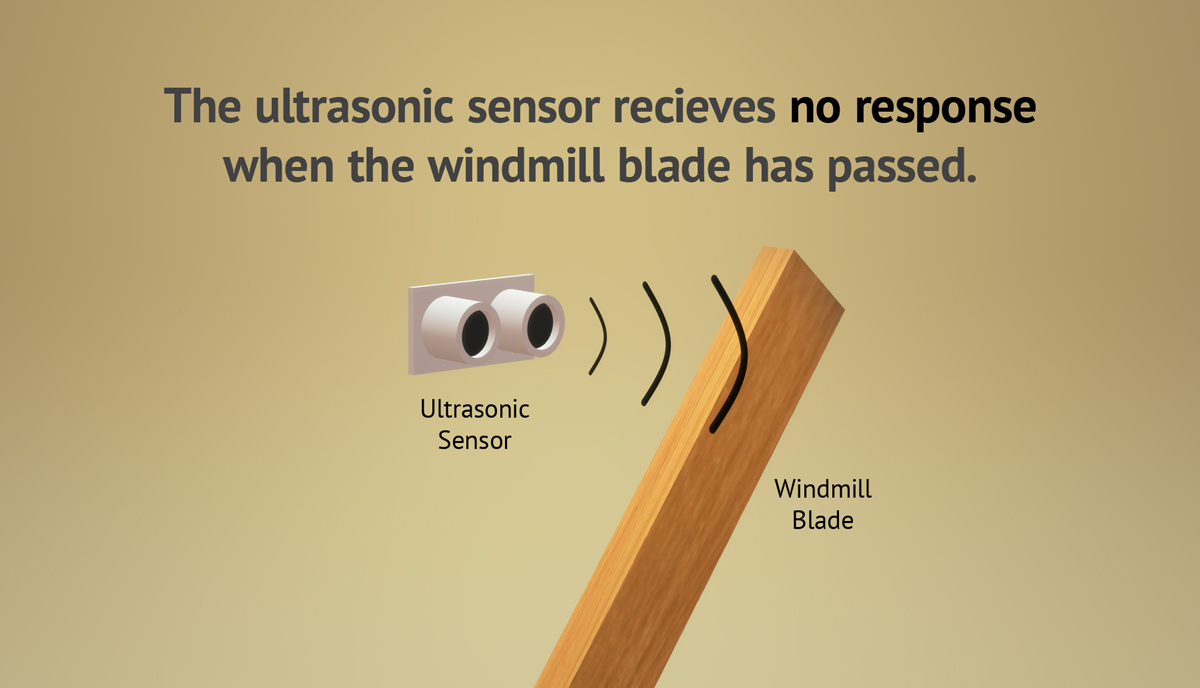
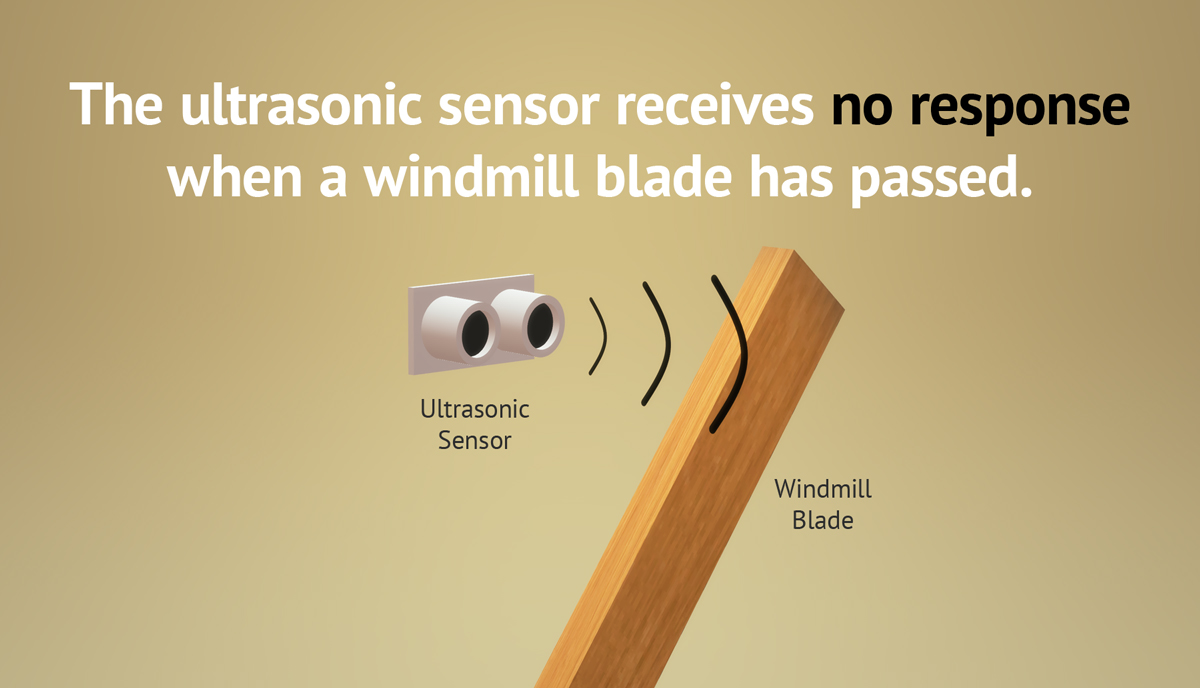
DHT11 data collection

Changed region(s): [[0.0617, 0.1221, 0.9558, 0.3052], [0.3392, 0.5799, 0.4317, 0.6715], [0.6475, 0.702, 0.74, 0.7631]]

diff --git a/about.html b/about.html
@@ -56,16 +56,7 @@
           What is it?
         </h3>
         <p>
-          This is a DIY project to measure and display temperature and windspeed. A homemade sensor unit records and uploads the data, which is accessable via web browser.
-        </p>
-
-        
-        
-          <h3>
-              How does it work?
-            </h3>
-        <p>
-          The weather station – pictured below – is mounted behind windmill blades. 
+          This is a DIY project to measure and display temperature and windspeed. The weather station – pictured below – is mounted behind windmill blades. A homemade sensor unit records and shares data, which is accessable via web browser.
         </p>
 
         <div class="row">
@@ -82,8 +73,12 @@
             </em>
           </div>
         </div>
+
         
-        <br>
+        
+          <h3>
+              How does it work?
+          </h3>
       <p>
         <b>Inside the Weather Station</b>
         
@@ -133,10 +128,10 @@
         </div>        
         <br>
         <p>
-           The ultrasonic sensor sends a signal every 2 milliseconds. If a windmill blade is in front of the sensor, the sensor receives and records a response. By adding how many responses the sensor recieves per 300 signals sent, the windspeed can be calculated.
+           The ultrasonic sensor sends a signal every 2 milliseconds. If a windmill blade is in front of the sensor, the sensor receives and records a response. By adding how many responses the sensor receives per 300 signals sent, the windspeed can be calculated.
           <br>
           <br>
-          <em>
+          <em style="text-align: center;display: block;font-size: 2em;">
             windspeed = (number of blade passes) x (conversion constant)
             </em>
           <br>

diff --git a/database/get_chart_data.php b/database/get_chart_data.php
@@ -18,34 +18,34 @@ $endrange = new DateTime(); //current date/time
 if ($_POST["scope"] == 'Hour') {
   $endrange->sub(new DateInterval("PT1H"));
   $endrange = $endrange->format('Y-m-d H:i:s');
-  $granularity = 2;
+  $granularity = 2; // average every 2 minuets
 }
 if ($_POST["scope"] == 'Day'){
   $endrange->sub(new DateInterval("P1D"));
   $endrange = $endrange->format('Y-m-d H:i:s');
-  $granularity = 40;
+  $granularity = 60; // average every 60 minuets
 }
 if ($_POST["scope"] == 'Week'){
   $endrange->sub(new DateInterval("P1W"));
   $endrange = $endrange->format('Y-m-d H:i:s');
-  $granularity = 160;
+  $granularity = 60 * 12; // average every 12 hours
 }
 if ($_POST["scope"] == 'Month'){
   $endrange->sub(new DateInterval("P1M"));
   $endrange = $endrange->format('Y-m-d H:i:s');
-  $granularity = 600;
+  $granularity = 60 * 24; // average every 24 hours
 }
 if ($_POST["scope"] == 'Year'){
   $endrange->sub(new DateInterval("P1Y"));
   $endrange = $endrange->format('Y-m-d H:i:s');
-  $granularity = 10600;
+  $granularity = 60 * 24 * 20; // average every 20 days
 }
 
 // Query Database
-$result = mysqli_query($conn, "SELECT ID, logdate, windspeed, ROUND(temperature * 9/5 + 29, 2) AS temperature
+$result = mysqli_query($conn, "SELECT ID, logdate, ROUND(AVG(windspeed),2) as windspeed, ROUND(AVG(temperature) * (9/5) + 32, 2) AS temperature
 FROM DataTable
 WHERE logdate BETWEEN '$endrange' AND '$startrange'
-AND ID % '$granularity' = 0
+GROUP BY FLOOR(UNIX_TIMESTAMP(logdate)/('$granularity' * 60))
 ORDER BY ID ASC");
 
 // Output array to Json Object

diff --git a/database/receiver.php b/database/receiver.php
@@ -13,10 +13,14 @@ if ( array_key_exists( 'windspeed' , $data ) ) {
   $conn->setAttribute(PDO::ATTR_ERRMODE, PDO::ERRMODE_EXCEPTION);
 
   $datenow = $now->format('Y-m-d H:i:s');
-  $windspeed  = $data['windspeed'] * 1.2;
-  $temperature = $data['temperature'];
+  $windspeed = ($data['windspeed'] <= 1 ? 0 : $data['windspeed'] * .72);
+  $temperature = $data['temperature'] - 1.7;
+    
+  // These next two values are from the DHT11 Sensor
+  $humidity = $data['humidity'];
+  $temperature2 = $data['temperature2'] - 1.7;
   
-  $sql = "INSERT INTO DataTable (logdate, windspeed, temperature) VALUES ('$datenow', '$windspeed', '$temperature')";
+  $sql = "INSERT INTO DataTable (logdate, windspeed, temperature, humidity, temperature2) VALUES ('$datenow', '$windspeed', '$temperature', '$humidity', '$temperature2')";
 
   // Prepare statement
   $stmt = $conn->prepare($sql);

diff --git a/database/get_current_data.php b/database/get_current_data.php
@@ -9,9 +9,10 @@ if ($conn->connect_error) {
 }
 
 //get current data
-$sql_current = "SELECT dt2.ID, dt2.logdate, ROUND(AVG(dt1.windspeed),2) AS windspeed, ROUND(dt2.temperature * 9/5 + 29, 2) AS temperature
-FROM (SELECT `windspeed`, ID FROM DataTable ORDER BY ID DESC LIMIT 2) dt1
-LEFT JOIN DataTable dt2 ON dt1.ID = dt2.ID";
+$sql_current = "SELECT ID, logdate, ROUND(windspeed,2) AS windspeed, ROUND(temperature * 9/5 + 32, 2) AS temperature
+FROM DataTable
+ORDER BY ID DESC
+LIMIT 1";
 
 $result_current = mysqli_query( $conn , $sql_current );
 
